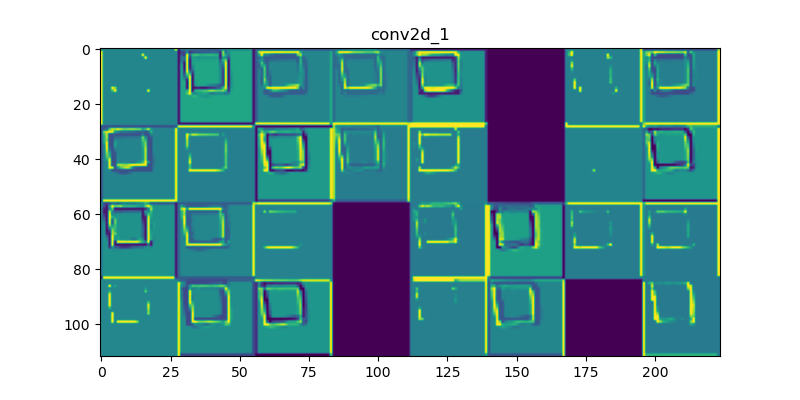
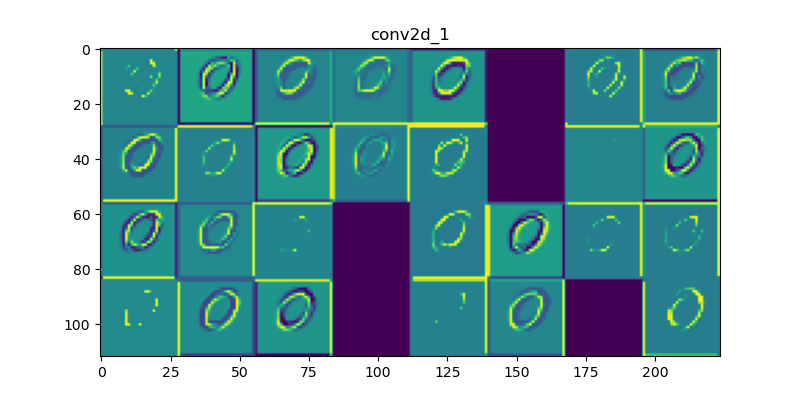
works still

diff --git a/dataset/views.py b/dataset/views.py
@@ -4,7 +4,7 @@ from PIL import Image
 from django.http import JsonResponse, HttpResponse, HttpResponseNotFound
 
 from UnderstandableAi.settings import BASE_DIR
-from dataset.Neural import getLayerPlot
+from dataset.ShapeSetNeural import getLayerPlot
 
 def index(request, picnum, shapes, layer):
     if(layer == '0'):
